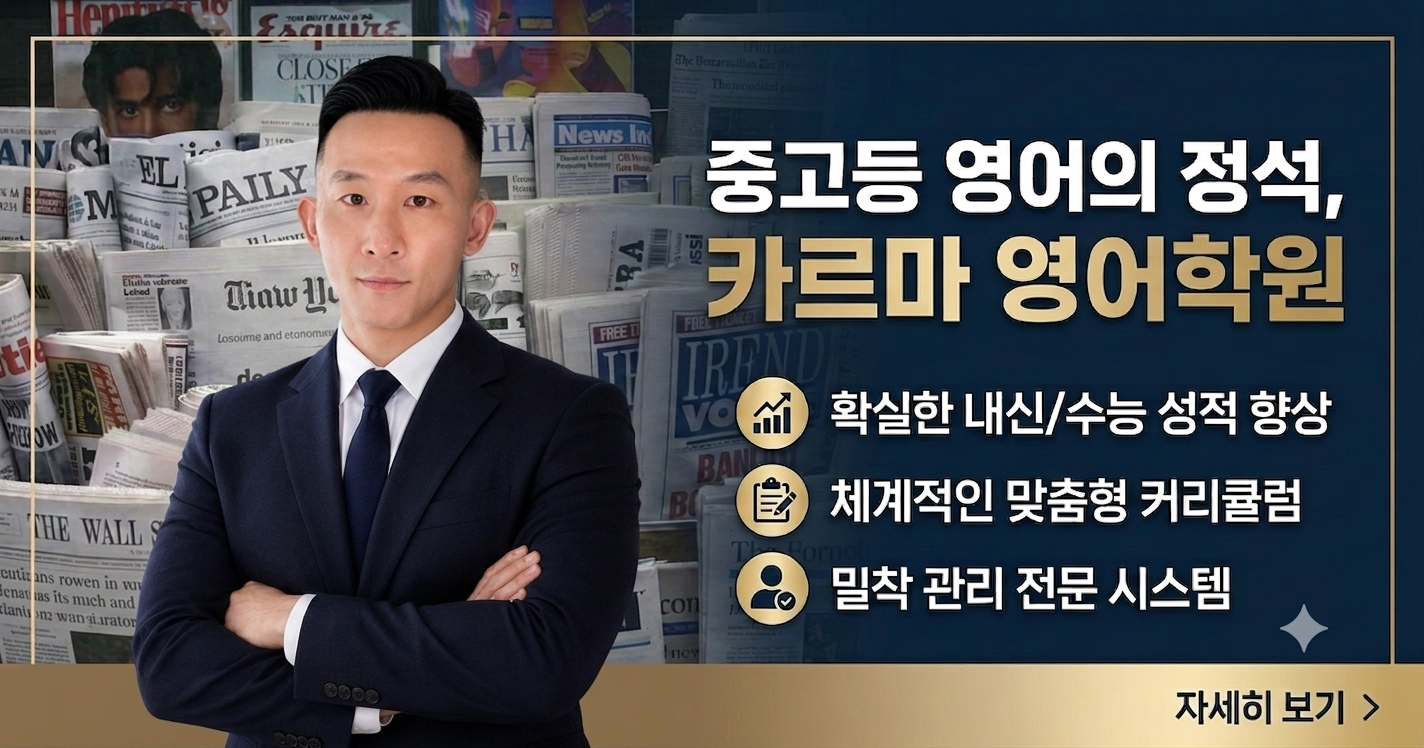
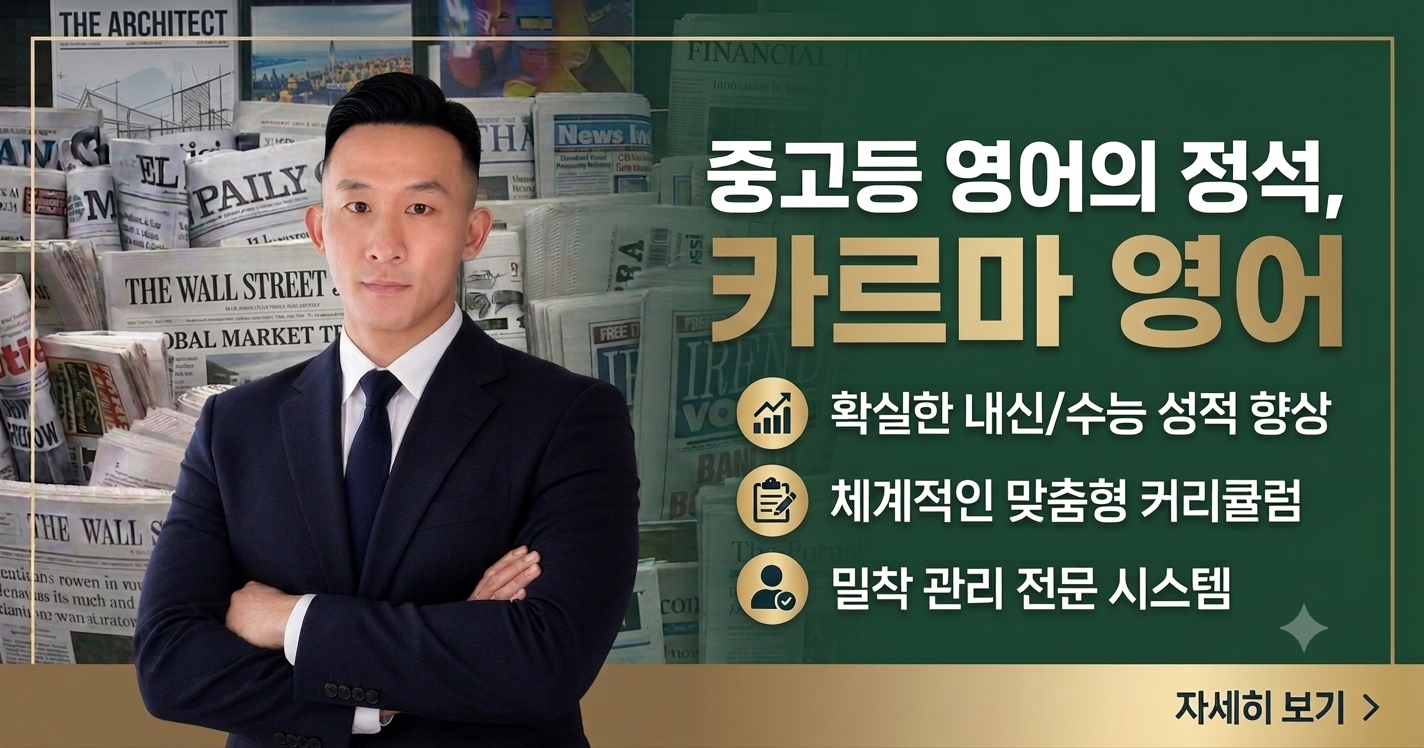
fix: update site metadata to 카르마 영어 and bump og-image to v=3

diff --git a/frontend/src/app/layout.tsx b/frontend/src/app/layout.tsx
@@ -6,10 +6,10 @@ import QueryProvider from "@/components/layout/QueryProvider";
 const geist = Geist({ subsets: ["latin"], variable: "--font-geist-sans" });
 
 const SITE_URL = 'https://english-jyp.vercel.app';
-const SITE_NAME = '카르마 영어학원';
-const DEFAULT_TITLE = '카르마 영어학원 | 부산 해운대구 중고등 영어 전문';
+const SITE_NAME = '카르마 영어';
+const DEFAULT_TITLE = '카르마 영어 | 부산 해운대구 중고등 영어 전문';
 const DEFAULT_DESCRIPTION =
-  '부산광역시 해운대구 Karma 영어학원. 학교별 내신 기출 분석, 모의고사 대비, 문법·독해 커리큘럼까지 중고등 영어를 체계적으로 준비하세요.';
+  '부산광역시 해운대구 카르마 영어. 학교별 내신 기출 분석, 모의고사 대비, 문법·독해 커리큘럼까지 중고등 영어를 체계적으로 준비하세요.';
 
 export const metadata: Metadata = {
   metadataBase: new URL(SITE_URL),
@@ -27,11 +27,10 @@ export const metadata: Metadata = {
     description: DEFAULT_DESCRIPTION,
     images: [
       {
-        url: '/og-image.png?v=2',
-
+        url: '/og-image.png?v=3',
         width: 1200,
         height: 630,
-        alt: '카르마 영어학원',
+        alt: '카르마 영어',
       },
     ],
   },
@@ -39,9 +38,9 @@ export const metadata: Metadata = {
     card: 'summary_large_image',
     title: DEFAULT_TITLE,
     description: DEFAULT_DESCRIPTION,
-    images: ['/og-image.png?v=2'],
+    images: ['/og-image.png?v=3'],
   },
-  keywords: ['카르마 영어학원', '부산 영어학원', '해운대구 영어', '중고등 영어', '내신 영어', '모의고사 영어', '부산 해운대구 학원'],
+  keywords: ['카르마 영어', '부산 영어학원', '해운대구 영어', '중고등 영어', '내신 영어', '모의고사 영어', '부산 해운대구 학원'],
   authors: [{ name: 'JYP' }],
   robots: { index: true, follow: true },
 };
